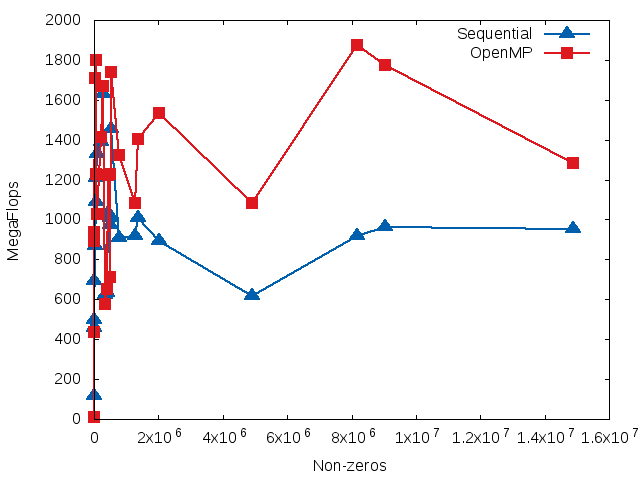
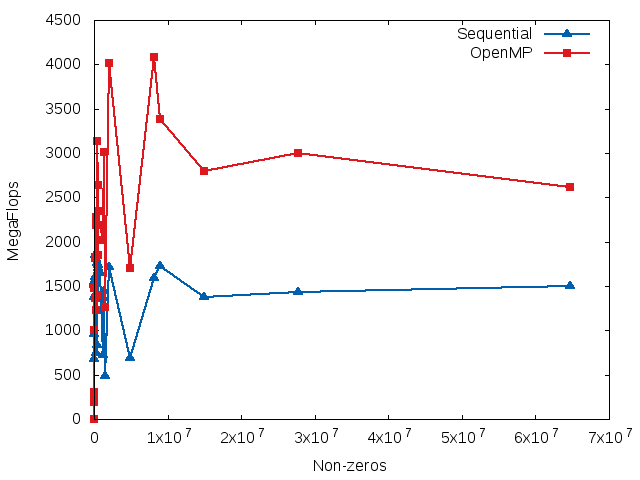
matrices were added

diff --git a/src/matrix/matrix.cpp b/src/matrix/matrix.cpp
@@ -36,8 +36,8 @@ int Matrix::getCols() {
 	return this->cols;
 }
 
-unsigned long long Matrix::getMegaFlops() {
-	return 2.0 * (unsigned long long)this->nz / ((double)this->elapsed_time / (unsigned long long)this->measures) / 1000.0;
+unsigned long long Matrix::getGigaFlops() {
+	return 2.0 * (unsigned long long)this->nz / ((double)this->elapsed_time / (unsigned long long)this->measures) / 1000000.0;
 }
 
 void Matrix::printElapsedTime() {
@@ -54,10 +54,10 @@ void Matrix::resetResults() {
 
 void Matrix::trackTime() {
 	if (this->measuring == false) {
-		this->start = omp_get_wtime() * 1000.0;
+		this->start = omp_get_wtime();
 		this->measuring = true;
 	} else {
-		this->done = omp_get_wtime() * 1000.0;
+		this->done = omp_get_wtime();
 		this->elapsed_time += done - start;
 		this->measures++;
 		this->measuring = false;

diff --git a/src/methods/sequential.cpp b/src/methods/sequential.cpp
@@ -17,12 +17,6 @@ void sequentialCSR(CSR * &csr) {
 		csr->trackTime();
 		for (int i = 0; i < m; ++i) {
 			for (int j = irp[i]; j < irp[i + 1]; ++j) {
-				if (j < 0 || j >= csr->getnz()) {
-					std::cout << "From " << j << " to " << irp[i + 1] << std::endl;
-				}
-				if (ja[j] < 0 || ja[j] >= csr->getnz()) {
-					std::cout << "ja[j] = " << ja[j] << " of " << csr->getnz() << std::endl;
-				}
 				csr->y[i] += as[j] * x[ja[j]];
 			}
 		}

diff --git a/src/matrix/csr.cpp b/src/matrix/csr.cpp
@@ -3,11 +3,12 @@
 CSR::CSR(int cols, int rows, int nz) : Matrix(cols, rows, nz) {
 	this->ja = new int[nz];
 	this->as = new double[nz];
-	this->irp = new int[nz + 1];
+	this->irp = new int[cols + 1];
 	this->element_index = 0;
 	
 	this->irp_size = 0;
 
+	std::fill(&this->irp[0], &this->irp[cols + 1], -1);
 	std::fill(&this->ja[0], &this->ja[nz], 0);
 	std::fill(&this->as[0], &this->as[nz], 0.0);
 };

diff --git a/src/io/iomanager.cpp b/src/io/iomanager.cpp
@@ -123,6 +123,6 @@ void IOmanager::exportResults(std::string output_file, std::string path, CSR * c
 	ellpack->printElapsedTime();
 	
 	name = extractName(path);
-	out << csr->getnz() << " " << csr->getMegaFlops() << " " << ellpack->getMegaFlops() << std::endl;
+	out << csr->getnz() << " " << csr->getGigaFlops() << " " << ellpack->getGigaFlops() << std::endl;
 }
 

diff --git a/src/matrix/matrix.h b/src/matrix/matrix.h
@@ -15,7 +15,7 @@ public:
 	double * x, * y;
 	Matrix(int cols, int rows, int nz);
 	double * getX();
-	unsigned long long getMegaFlops();
+	unsigned long long getGigaFlops();
 	int getnz();
 	int getCols();
 	void printElapsedTime();
